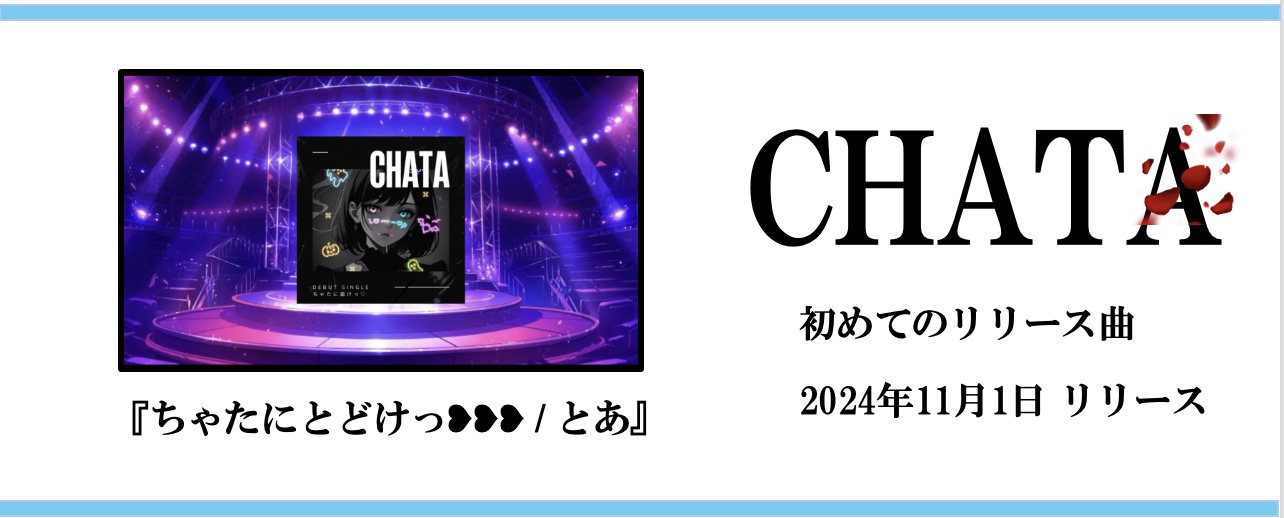
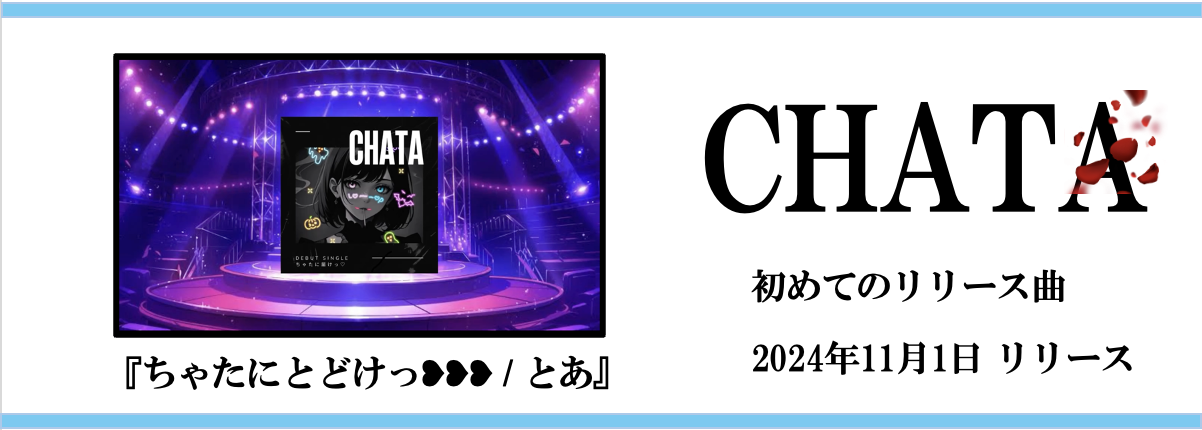
remote

diff --git a/styles.css b/styles.css
@@ -43,10 +43,8 @@ header .logo {
 }
 
 .text-content {
-
-    margin-top: 30px;
-    margin-bottom: 10px;;
-
+    margin-top: 20px;
+    margin-bottom: 10px; /* ボタンとスクリーンショット画像の間隔を確保 */
 }
 
 .cta-button {
@@ -159,4 +157,84 @@ video {
     .partners img {
         width: 80px;
     }
+}
+
+
+
+.slider-container {
+    position: relative;
+    width: 100%; /* コンテナの幅 */
+    max-width: 1500px; /* 必要に応じて変更 */
+    overflow: hidden;
+}
+
+.slider {
+    display: flex;
+    transition: transform 0.3s ease-in-out;
+}
+
+.slide {
+    min-width: 100%;
+    box-sizing: border-box;
+}
+
+.slide img {
+    width: 100%; /* 親コンテナに合わせて画像をリサイズ */
+    height: auto; /* アスペクト比を保持 */
+    max-height: 700px; /* 必要なら高さの最大値を設定 */
+    object-fit: cover; /* 画像の表示方法（オプション） */
+}
+
+/* 矢印ボタンのスタイル */
+.arrow {
+    position: absolute;
+    top: 50%;
+    transform: translateY(-50%);
+    background-color: rgba(0, 0, 0, 0.5); /* 半透明の背景 */
+    color: white;
+    border: none;
+    padding: 10px;
+    cursor: pointer;
+    font-size: 2rem;
+    z-index: 1;
+}
+
+/* 左矢印の位置 */
+.arrow-left {
+    left: 10px; /* スライドの左側に配置 */
+}
+
+/* 右矢印の位置 */
+.arrow-right {
+    right: 10px; /* スライドの右側に配置 */
+}
+
+/* ホバー時のスタイル */
+.arrow:hover {
+    background-color: rgba(0, 0, 0, 0.7);
+}
+
+
+.image-content img {
+    max-width: 120%; 
+    height: auto; 
+    max-width: 3000px;
+    margin-top: 10px;
+    margin-left: 30px;
+}
+.video-container {
+    position: relative;
+    padding-bottom: 56.25%; /* 16:9 のアスペクト比 */
+    height: 0;
+    overflow: hidden;
+    max-width: 100%;
+    background: #000;
+}
+
+.video-container iframe {
+    position: absolute;
+    top: 0;
+    left: 0;
+    width: 100%;
+    height: 100%;
 }

diff --git a/index.html b/index.html
@@ -13,8 +13,26 @@
     </header>
     <!-- メインセクション -->
     <section class="main">
-        <div class="image-content">
-            <img src="release.png" alt="release">
+        <div class="slider-container">
+            <div class="slider">
+                <div class="slide">
+                    <img src="release.png" alt="release">
+                </div>
+                <div class="slide">
+                    <img src="pillow.png" alt="release"></div>
+                <div class="slide">
+                    <img src="goods.png" alt="release"></div>
+                <!-- 追加のスライド -->
+            </div>
+    
+    
+    
+        <!-- コントロールボタン -->
+    
+        <button class="arrow arrow-left" id="prev">&#8592;</button>
+        <button class="arrow arrow-right" id="next">&#8594;</button>
+    
+        <script src="script.js"></script>
         </div>
         
         <div class="text-content">
@@ -42,6 +60,16 @@
     </section>
 
     <!-- パートナーロゴセクション -->
+<<<<<<< HEAD
+=======
+    <section class="partners">
+        <img src="ntt-logo.png" alt="fentanil">
+        <img src="money-forward-logo.png" alt="movies">
+        <img src="vcube-logo.png" alt="photo shop">
+        <img src="eisai-logo.png" alt="++ Plus">
+        <img src="allied-architects-logo.png" alt="more information">
+    </section>
+>>>>>>> 0b6d72a (slide point)
     <script>
         document.getElementById("myVideo").volume = 0.05; // 初期音量を30%に設定
     </script>

diff --git a/script.js b/script.js
@@ -1,0 +1,16 @@
+// script.js
+let currentIndex = 0;
+
+document.getElementById('next').addEventListener('click', () => {
+    const slider = document.querySelector('.slider');
+    const slides = document.querySelectorAll('.slide');
+    currentIndex = (currentIndex + 1) % slides.length;
+    slider.style.transform = `translateX(-${currentIndex * 100}%)`;
+});
+
+document.getElementById('prev').addEventListener('click', () => {
+    const slider = document.querySelector('.slider');
+    const slides = document.querySelectorAll('.slide');
+    currentIndex = (currentIndex - 1 + slides.length) % slides.length;
+    slider.style.transform = `translateX(-${currentIndex * 100}%)`;
+});

diff --git a/README.md b/README.md
@@ -15,8 +15,12 @@
 ├── README.md
 ├── chata.mp4
 ├── clogo.png
+├── goods.png
 ├── index.html
+├── pillow.png
+├── quuen.mp4
 ├── release.png
+├── script.js
 └── styles.css
 
 
@@ -27,4 +31,5 @@
 <pre>
 * html
 * css
+* javascript
 
